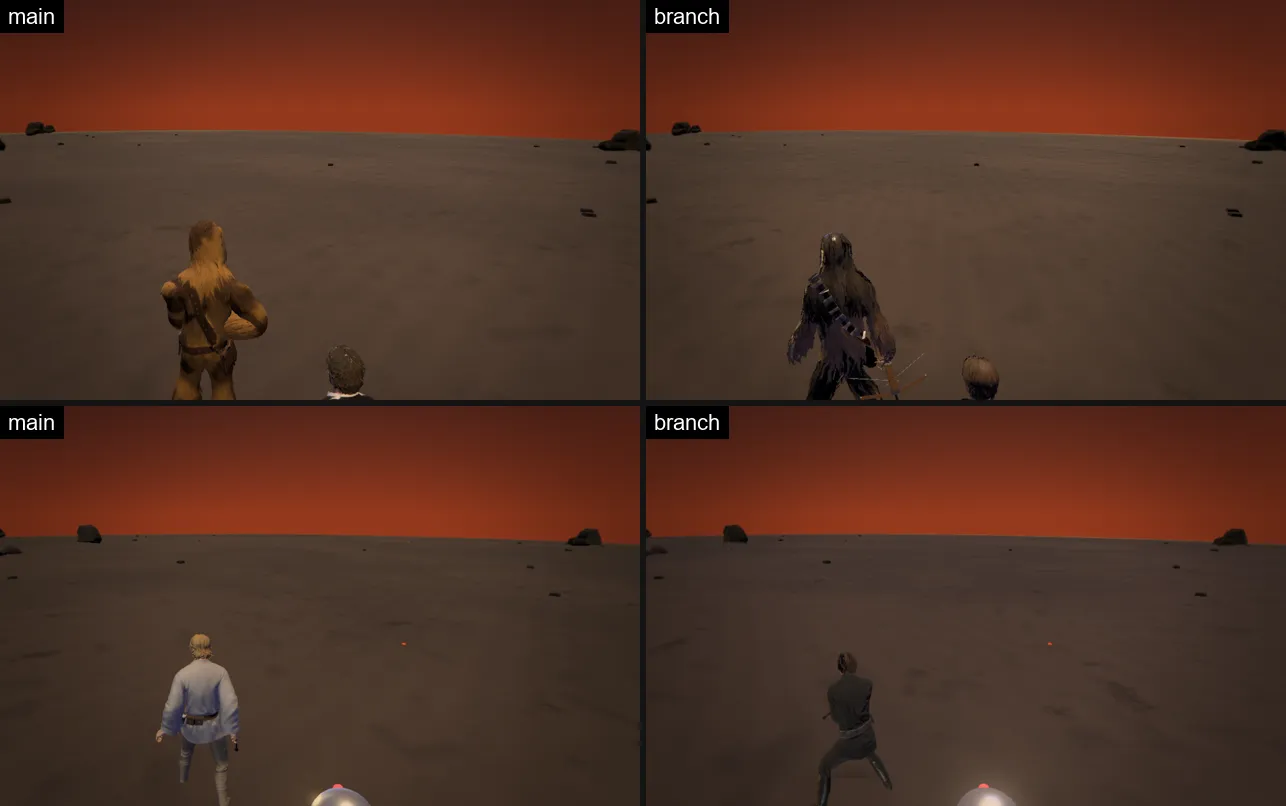
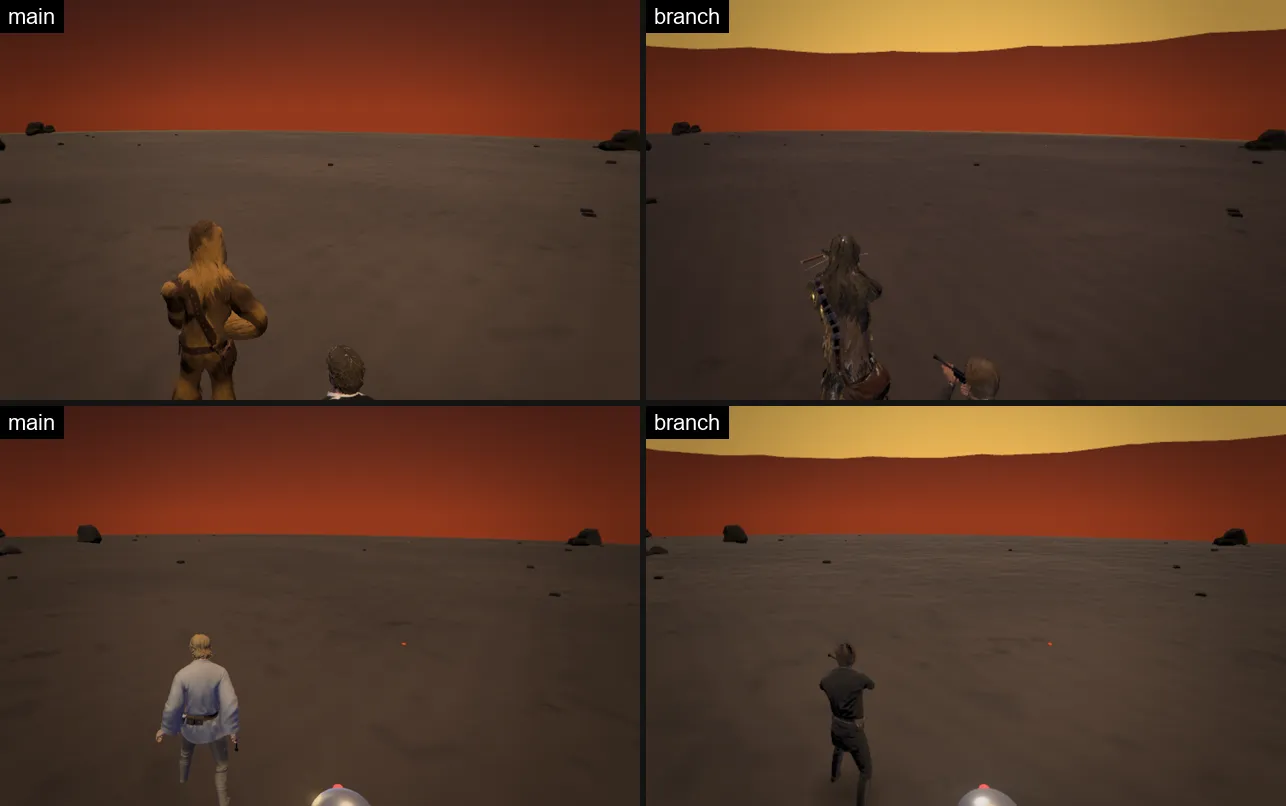
The game’s bodies on foot face the way they go, as the game turns them
The game’s clips are authored facing +x and the game puts a −90° on
AITrajectory that the clip packer drops; walrus.js’s faceAlongZ puts it
back, so the universe’s 2017 people walk ahead of them and aim at whoever
they aim at rather than past them. The shots are taken again with it.

Claude-Session: https://claude.ai/code/session_01MXZdbu4sUhU7FweraLF96Y

diff --git a/src/lib/three/walrus.js b/src/lib/three/walrus.js
@@ -34,6 +34,9 @@
 //     { whole: url } that pack alone: a guest's (scripts/guest-clips.mjs),
 //     the game's clips with their position channels sized to its own body,
 //     which the game's packs, made for the 1.77 m man, must not be laid over
+//   faceAlongZ(model) → whether it had the node: the body turned to face +z
+//     whichever of the game's clips it plays, as every other figure on the
+//     site faces (AITRAJECTORY_TURN, below)
 //   cutFor(url, level): which of a 2017 figure's three files a device loads
 //     (lib/detail.js's level, from lib/device's tier): at ultra its
 //     `.ultra` (the game's top mesh, every map at the game's 2048, up to
@@ -48,6 +51,23 @@ import { CLIP_FALLBACK, SOCKETS, checkWalrus, isWalrus } from './walrusRig.js';
 import { EMOTE_HEROES } from './walrusSets/emotes.js';
 
 export const PACK_DIR = '/models/galaxy/bf2017';
+
+// The game's clips are authored facing +x, and the game turns them to a
+// figure's way by a constant −90° on AITrajectory, the root it moves a
+// figure by, whose tracks the clip packer drops (scripts/bf2017-clips.mjs's
+// DROP; the Battlefront world's figures/facing.js measures it on the
+// committed body and pack): a body with that constant put back faces +z in
+// every clip, walks the way it goes and holds its gun ahead of it. No packed
+// clip keys the node, so it stays put; a body without it (a droid on a rig
+// of its own) is left as it is.
+export const AITRAJECTORY_TURN = [0, -Math.SQRT1_2, 0, Math.SQRT1_2];
+export function faceAlongZ(model) {
+  const node = model?.getObjectByName?.('AITrajectory');
+  if (!node) return false;
+  node.quaternion.fromArray(AITRAJECTORY_TURN);
+  node.updateMatrix();
+  return true;
+}
 export const packUrls = (hero = null, { extras = true, whole = null } = {}) =>
   whole
     ? [whole]

diff --git a/src/lib/three/walrus.test.js b/src/lib/three/walrus.test.js
@@ -1,7 +1,7 @@
 import * as THREE from 'three';
 import { afterEach, describe, expect, it } from 'vitest';
 import { clearGLTFCache } from './gltfCache';
-import { clipsFor, cutFor, cutsToLoad, loadWalrusBody, loadWalrusPacks, packUrls, richClips, socketsOf, swapBody } from './walrus';
+import { AITRAJECTORY_TURN, clipsFor, cutFor, cutsToLoad, faceAlongZ, loadWalrusBody, loadWalrusPacks, packUrls, richClips, socketsOf, swapBody } from './walrus';
 import { BODY, SOCKETS } from './walrusRig.js';
 
 // a body by name: the game's (BODY and the sockets) or Meshy's
@@ -161,5 +161,20 @@ describe('a 2017 figure, light first and its full cut swapped in', () => {
     expect(meshes.map((m) => m.name)).toEqual(['full']);
     expect(meshes[0].skeleton.bones).toEqual([light.hips, light.head]);
     expect(meshes[0].frustumCulled).toBe(false);
+  });
+});
+
+describe('a 2017 body turned to face along +z', () => {
+  it('puts the game’s own −90° back on AITrajectory, so a clip authored facing +x faces +z', () => {
+    const model = new THREE.Group();
+    const node = new THREE.Object3D();
+    node.name = 'AITrajectory';
+    model.add(node);
+    expect(faceAlongZ(model)).toBe(true);
+    expect(node.quaternion.toArray()).toEqual(AITRAJECTORY_TURN);
+    // (its +x, where the game’s clips face, is the model’s +z)
+    const ahead = new THREE.Vector3(1, 0, 0).applyQuaternion(node.quaternion);
+    expect(ahead.z).toBeCloseTo(1);
+    expect(faceAlongZ(new THREE.Group())).toBe(false);
   });
 });

diff --git a/src/components/universe/footFigures.js b/src/components/universe/footFigures.js
@@ -21,7 +21,7 @@ import * as THREE from 'three';
 import { gltfLoader } from '../../lib/three/gltf';
 import { NO_CALLS, animatorCalls, seedOf } from '../../lib/three/figureCalls';
 import { createAnimator } from '../../lib/three/animator';
-import { cutsToLoad, loadWalrusBody, loadWalrusPacks, packUrls, richClips, swapBody } from '../../lib/three/walrus';
+import { cutsToLoad, faceAlongZ, loadWalrusBody, loadWalrusPacks, packUrls, richClips, swapBody } from '../../lib/three/walrus';
 import { createCutter, cutUrl } from '../../lib/three/walrusCuts';
 import { withStance } from '../../lib/three/walrusStance';
 import { createAdditiveLayer } from '../../lib/three/additiveLayer';
@@ -227,6 +227,8 @@ async function gameFigure(spec, loadBody) {
   const lowData = Boolean(device().saveData);
   const [first, next] = cuts ? [cutUrl(spec.src.url, cuts.lod ? 'lod1' : 'plain'), null] : cutsToLoad(spec.src.url, level, { lowData });
   const { model, clips, sockets } = await loadBody(first).catch((e) => (first === spec.src.url ? Promise.reject(e) : loadBody(spec.src.url)));
+  // (turned to face the way it goes: the game's clips face +x, lib/three/walrus.js's faceAlongZ)
+  faceAlongZ(model);
   // (each mesh's materials, the copy's own, returned for the figure to free)
   const dress = (root) => {
     const mats = [];
